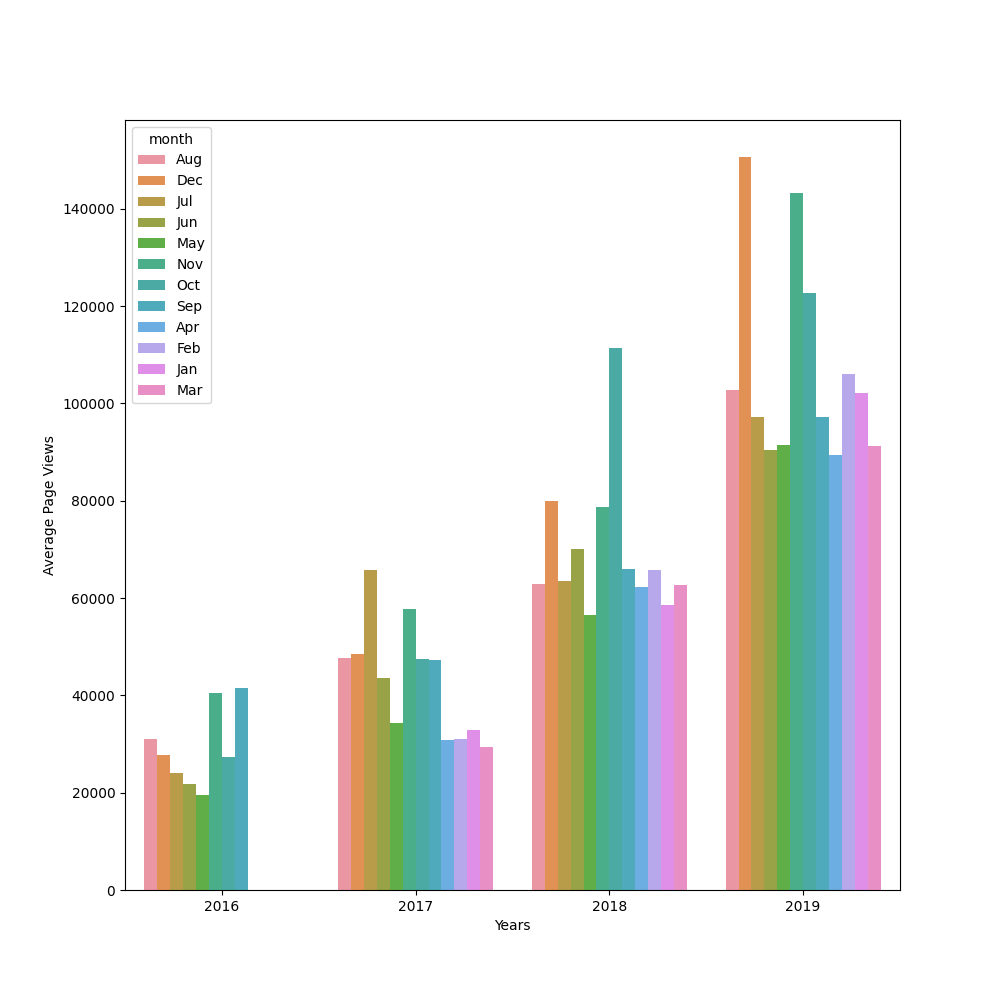
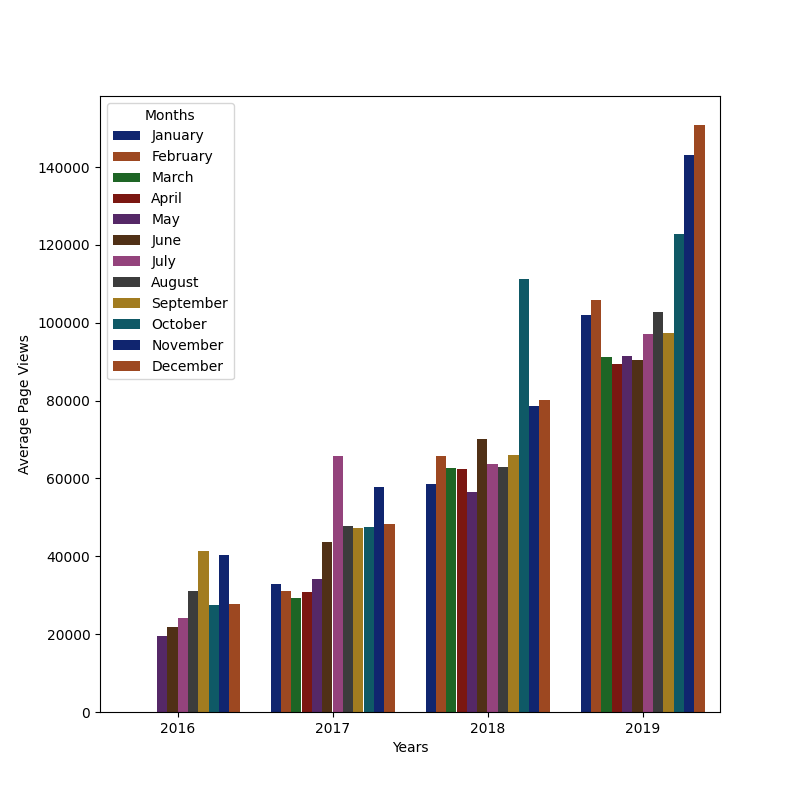
Perfect version of barplot

diff --git a/time_series_visualizer.py b/time_series_visualizer.py
@@ -26,28 +26,23 @@ def draw_line_plot():
 
 def draw_bar_plot():
     # Copy and modify data for monthly bar plot
-    df.reset_index(inplace = True)
-    #df["month"] = df.index.month
-    #df["year"] = df.index.year
+    tmp = df.copy()
+    tmp.reset_index(inplace = True)
     df_bar = pd.DataFrame()
-   # 
-    df_bar['year'] = [d.year for d in df.date]
-    df_bar['month'] = [d.strftime('%b') for d in df.date]
-    df_bar['value'] = df['value']
+    df_bar['year'] = [d.year for d in tmp.date]
+    df_bar['month'] = [d.strftime('%B') for d in tmp.date]
+    df_bar['value'] = tmp['value']
     df_bar = df_bar.groupby(['year', 'month'])['value'].mean()
     df_bar = df_bar.reset_index(level=['year','month'])
-    print(df_bar.info())  
-    print(df_bar.head())
-    
   
     months = ['January', 'February', 'March', 'April', 'May', 'June', 'July', 'August', 'September', 'October', 'November', 'December']
 
     # Draw bar plot
 
-    fig, ax = plt.subplots(figsize=(10,10))
-    ax = sns.barplot(x = 'year', y = 'value', hue = 'month', data = df_bar)
+    fig, ax = plt.subplots(figsize=(8,8))
+    ax = sns.barplot(x = 'year', y = 'value', hue = 'month', hue_order = months, data = df_bar, palette = 'dark')
     ax.set(xlabel='Years', ylabel = 'Average Page Views')
-    #ax.legend(months)
+    ax.legend(loc='upper left', title ='Months')
     fig = ax.get_figure()
      
     # Save image and return fig (don't change this part)
@@ -62,7 +57,7 @@ def draw_box_plot():
     df_box['month'] = [d.strftime('%b') for d in df_box.date]
 
     # Draw box plots (using Seaborn)
-
+    fig, ax = plt.subplots(figsize=(8,8))
 
 
 

diff --git a/test_module.py b/test_module.py
@@ -31,7 +31,7 @@ class LinePlotTestCase(unittest.TestCase):
         expected = 1238
         self.assertEqual(actual, expected, "Expected number of data points in line plot to be 1238.")
 
-'''
+
 class BarPlotTestCase(unittest.TestCase):
     def setUp(self):
         self.fig = time_series_visualizer.draw_bar_plot()
@@ -62,7 +62,7 @@ class BarPlotTestCase(unittest.TestCase):
         expected = 49
         self.assertEqual(actual, expected, "Expected a different number of bars in bar chart.")
 
-
+''''
 class BoxPlotTestCase(unittest.TestCase):
     def setUp(self):
         self.fig = time_series_visualizer.draw_box_plot()
